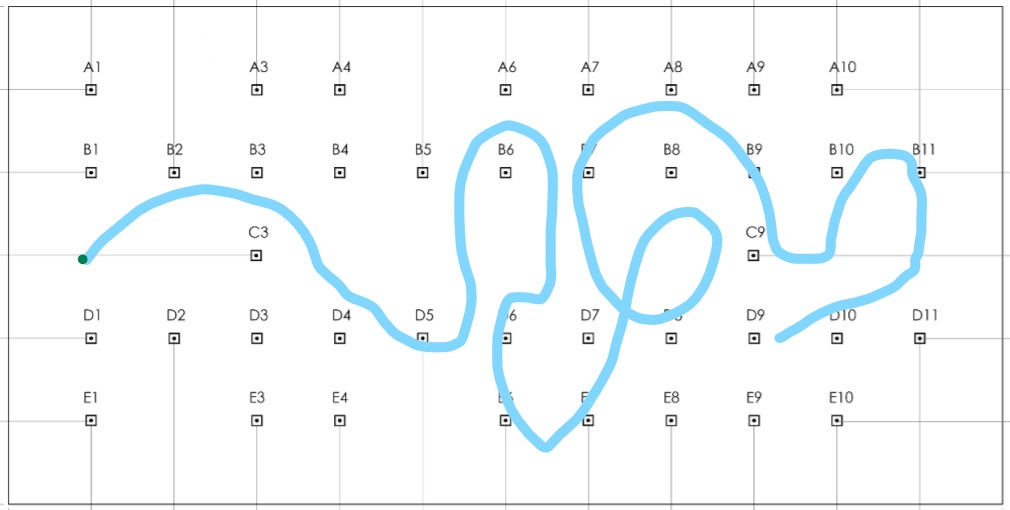
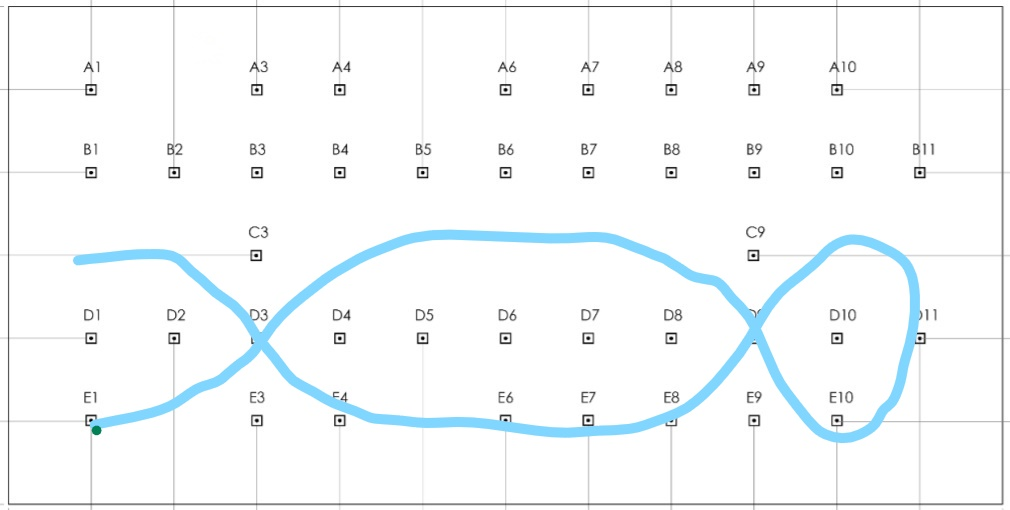
Updated more automation

Changed region(s): [[0.0614, 0.1765, 0.9208, 0.8824]]

diff --git a/CoursePlanner/CreateCourse.py b/CoursePlanner/CreateCourse.py
@@ -10,7 +10,7 @@ k_markerColor = [255, 40, 5] #Ferrari Red
 k_orginColor = [0, 255, 0] # green
 k_waypointStringingRadius = 23 # the maximum distance to look for a waypoint when creating a path
 k_pixelScalingFactor = .009208 # how many meters are represented by the length 1 pixel
-k_maxPathSmoothingDistance = 80 # how far between points the smoothing algorithim can go
+k_maxPathSmoothingDistance = 100 # how far between points the smoothing algorithim can go
 k_convertPathToCode = True # wether or not to save the path as lines of code
 
 baseImage = Image.open('BaseImage.jpg')
@@ -20,7 +20,7 @@ outputImageBitmap = baseImageBitmap # save for later use
 baseHeight = baseImageBitmap.shape[0]
 baseWidth = baseImageBitmap.shape[1]
 
-newImage = Image.open('NewImage5.jpg')
+newImage = Image.open('NewImage6.jpg')
 newImageBitmap = np.array(newImage)
 
 newHeight = newImageBitmap.shape[0]
@@ -179,8 +179,8 @@ while(pathFound):
             if(unlineraity < lowestUnlinearity or lowestUnlinearity == -1):
                 lowestUnlinearity = unlineraity
         
-        unlineraityMax = lowestUnlinearity + math.pi / 12 # waypoints that are valid must be in this range + or -
-        validWaypoints = [] # all of the points that are within the unlinearity max
+        unlineraityMax = lowestUnlinearity + math.pi / 16 # waypoints that are valid must be in this range + or -
+        validWaypoints = [] # all of the points that are w ithin the unlinearity max
         for waypoint in waypointsInZoneArray:
             currentAngle = math.pi / 2
             if(waypoint[1] != startPoint[1]): # stops a division by zero
@@ -294,6 +294,7 @@ while(waypointCounter + 3 < pathArray.__len__()):
     waypointCounter = waypointCounter + 1
 
 print("Smoothing: Method 2")
+print(pathArray.__len__())
 
 waypointCounter = 0
 while(waypointCounter + 2 < pathArray.__len__()):
@@ -314,7 +315,7 @@ while(waypointCounter + 2 < pathArray.__len__()):
                     pointFound = True # marks the point as found but do not smooth becuase the point is invalid
                     smoothPoint = False
             else: 
-                validPoint = pathArray[waypointCounter + nextPointCounter + 1]
+                validPoint = pathArray[waypointCounter + nextPointCounter]
 
                 distance = math.sqrt(math.pow(point[0] - validPoint[0], 2) + math.pow(point[1] - validPoint[1], 2))
                 if(distance < k_maxPathSmoothingDistance): # if the point is within the smoothing distance continue
@@ -336,35 +337,40 @@ while(waypointCounter + 2 < pathArray.__len__()):
                 relativeAngle = -relativeAngle
             if(nextPoint[1] != point[1]):
                 relativeAngle = math.atan(nextPoint[0] - point[0]) / (nextPoint[1] - point[1]) #slope of the first path between the first two points
-
+                if(nextPoint[1] < point[1]):
+                    relativeAngle = relativeAngle + math.pi
 
             nextRelativeAngle = math.pi / 2
-            if(nextNextPoint[0] < point[0]):
+            if(nextNextPoint[0] < nextPoint[0]):
                 nextRelativeAngle = -nextRelativeAngle
-            if(nextNextPoint[1] != point[1]):
-                nextRelativeAngle = math.atan(nextNextPoint[0] - point[0]) / (nextNextPoint[1] - point[1]) #slope of the first path between the first two points
+            if(nextNextPoint[1] != nextPoint[1]):
+                nextRelativeAngle = math.atan(nextNextPoint[0] - nextPoint[0]) / (nextNextPoint[1] - nextPoint[1]) #slope of the first path between the first two points
+                if(nextNextPoint[1] < nextPoint[1]):
+                    nextRelativeAngle = nextRelativeAngle + math.pi
 
-            unlinearity = (nextRelativeAngle - relativeAngle)
+            unlinearity = abs(nextRelativeAngle - relativeAngle)
+            if(unlinearity > math.pi):
+                unlinearity = math.pi * 2 - unlinearity
 
-            if(unlinearity < (math.pi / 12)): # smooth if the line is almost linear
-                pathArray[waypointCounter + nextPointCounter + 1] = [nextNextPoint[0], nextNextPoint[1], -1]
+            if(unlinearity < (math.pi / 50)): # smooth if the line is almost linear
+                pathArray[waypointCounter + nextPointCounter] = [nextNextPoint[0], nextNextPoint[1], -1]
             else:
                 smoothPoint = False
     
-    ironCounter = 0
-    newPathArray = []
+        ironCounter = 0
+        newPathArray = []
 
-    while(ironCounter < pathArray.__len__()): #irons out all of the invalid points from the path array
-        if(pathArray[ironCounter].__len__() == 2):
-            newPathArray.append(pathArray[ironCounter])
-        ironCounter = ironCounter + 1
+        while(ironCounter < pathArray.__len__()): #irons out all of the invalid points from the path array
+            if(pathArray[ironCounter].__len__() == 2):
+                newPathArray.append(pathArray[ironCounter])
 
-    pathArray = newPathArray
+            ironCounter = ironCounter + 1
+
+        pathArray = newPathArray
 
     waypointCounter = waypointCounter + 1
 
-
-
+print(pathArray.__len__())
 
 print("Creating ouput image")
 

diff --git a/src/main/java/frc/robot/helper/TestCourseManager.java b/src/main/java/frc/robot/helper/TestCourseManager.java
@@ -14,6 +14,54 @@ public class TestCourseManager extends CourseManager {
     protected List<double[]> getWayPointPoints() {
         List<double[]> wayPoints = new ArrayList();
 
+        wayPoints.add(new double[] { -0.0, 0.0 });
+        wayPoints.add(new double[] { 0.073664, 0.018416 });
+        wayPoints.add(new double[] { 0.09208, 0.11049599999999998 });
+        wayPoints.add(new double[] { 0.31307199999999996, 0.8103039999999999 });
+        wayPoints.add(new double[] { 0.36832, 0.8839679999999999 });
+        wayPoints.add(new double[] { 0.7734719999999999, 1.47328 });
+        wayPoints.add(new double[] { 0.9760479999999999, 1.6206079999999998 });
+        wayPoints.add(new double[] { 1.418032, 2.1178399999999997 });
+        wayPoints.add(new double[] { 1.47328, 2.20992 });
+        wayPoints.add(new double[] { 1.7495199999999997, 2.799232 });
+        wayPoints.add(new double[] { 1.786352, 2.9281439999999996 });
+        wayPoints.add(new double[] { 1.786352, 3.7568639999999998 });
+        wayPoints.add(new double[] { 1.786352, 3.8489439999999995 });
+        wayPoints.add(new double[] { 1.786352, 4.493504 });
+        wayPoints.add(new double[] { 1.786352, 4.585584 });
+        wayPoints.add(new double[] { 1.491696, 5.414304 });
+        wayPoints.add(new double[] { 1.418032, 5.5248 });
+        wayPoints.add(new double[] { 0.902384, 6.1141119999999995 });
+        wayPoints.add(new double[] { 0.7918879999999999, 6.150943999999999 });
+        wayPoints.add(new double[] { 0.147328, 6.519264 });
+        wayPoints.add(new double[] { 0.036832, 6.611343999999999 });
+        wayPoints.add(new double[] { 0.257824, 7.311151999999999 });
+        wayPoints.add(new double[] { 0.33148799999999995, 7.3664 });
+        wayPoints.add(new double[] { 1.068128, 7.550559999999999 });
+        wayPoints.add(new double[] { 1.141792, 7.550559999999999 });
+        wayPoints.add(new double[] { 1.3443679999999998, 7.532144 });
+        wayPoints.add(new double[] { 1.7495199999999997, 7.090159999999999 });
+        wayPoints.add(new double[] { 1.7679359999999997, 6.924415999999999 });
+        wayPoints.add(new double[] { 1.3812, 6.408767999999999 });
+        wayPoints.add(new double[] { 1.2338719999999999, 6.2614399999999995 });
+        wayPoints.add(new double[] { 0.6445599999999999, 5.856287999999999 });
+        wayPoints.add(new double[] { 0.570896, 5.8010399999999995 });
+        wayPoints.add(new double[] { 0.11049599999999998, 5.193312 });
+        wayPoints.add(new double[] { 0.073664, 5.082815999999999 });
+        wayPoints.add(new double[] { -0.018416, 4.254096 });
+        wayPoints.add(new double[] { -0.0, 4.180432 });
+        wayPoints.add(new double[] { 0.073664, 3.5174559999999997 });
+        wayPoints.add(new double[] { 0.073664, 3.4253759999999995 });
+        wayPoints.add(new double[] { 0.11049599999999998, 2.7255679999999995 });
+        wayPoints.add(new double[] { 0.11049599999999998, 2.633488 });
+        wayPoints.add(new double[] { 0.36832, 2.007344 });
+        wayPoints.add(new double[] { 0.38673599999999997, 1.9336799999999998 });
+        wayPoints.add(new double[] { 0.9944639999999999, 1.418032 });
+        wayPoints.add(new double[] { 1.086544, 1.3259519999999998 });
+        wayPoints.add(new double[] { 1.491696, 0.8471359999999999 });
+        wayPoints.add(new double[] { 1.5837759999999999, 0.73664 });
+        wayPoints.add(new double[] { 1.5837759999999999, -0.128912 });
+
         return wayPoints;
     }
 }

diff --git a/src/main/java/frc/robot/commands/AutomatedMotion/GoToPoint.java b/src/main/java/frc/robot/commands/AutomatedMotion/GoToPoint.java
@@ -17,8 +17,8 @@ public class GoToPoint extends CommandBase {
     private Timer m_timer; // allows for the calculation of the derivative
     private double m_previousFrameCount; // the most recent acknowledged frame
 
-    private double m_basePower = -0.8; // the base value for moving to power cells
-    private double m_Kp = 0.05;
+    private double m_basePower = -0.4; // the base value for moving to power cells
+    private double m_Kp = 0.08;
     private double m_Ki = 0.02;
     private double m_Kd = 0.0013;
 
@@ -98,13 +98,13 @@ public class GoToPoint extends CommandBase {
                 leftValue = Math.min(1, leftValue); // ensure the values are in the range
                 leftValue = Math.max(-1, leftValue);
 
-                m_drive.tankDrive(leftValue, basePower);// if total correction is positive slow left
+                m_drive.tankDriveRaw(leftValue, basePower);// if total correction is positive slow left
             } else {
                 double rightValue = basePower - totalCorrection;
                 rightValue = Math.min(1, rightValue); // ensure the values are in the range
                 rightValue = Math.max(-1, rightValue);
 
-                m_drive.tankDrive(basePower, rightValue);// if total correction is positive slow right
+                m_drive.tankDriveRaw(basePower, rightValue);// if total correction is positive slow right
             }
         } else { // if the robot is moving forward
             if (totalCorrection > 0) {
@@ -112,13 +112,13 @@ public class GoToPoint extends CommandBase {
                 leftValue = Math.min(1, leftValue); // ensure the values are in the range
                 leftValue = Math.max(-1, leftValue);
 
-                m_drive.tankDrive(leftValue, basePower);// if total correction is positive slow left
+                m_drive.tankDriveRaw(leftValue, basePower);// if total correction is positive slow left
             } else {
                 double rightValue = basePower - totalCorrection;
                 rightValue = Math.min(1, rightValue); // ensure the values are in the range
                 rightValue = Math.max(-1, rightValue);
 
-                m_drive.tankDrive(basePower, rightValue);// if total correction is positive slow right
+                m_drive.tankDriveRaw(basePower, rightValue);// if total correction is positive slow right
             }
         }
 

diff --git a/src/main/java/frc/robot/helper/DriveHandlingSetup/TyTankDrive.java b/src/main/java/frc/robot/helper/DriveHandlingSetup/TyTankDrive.java
@@ -7,6 +7,11 @@ public class TyTankDrive extends HandlingBase {
     }
 
     @Override
+    public double getPowerCoefficentInitialValue() {
+        return .5;
+    }
+
+    @Override
     public String getDefaultDriveCommandNameInitialValue() {
         return "TankDriveHandBrake";
     }
@@ -19,11 +24,6 @@ public class TyTankDrive extends HandlingBase {
     @Override
     public String getTabName() {
         return "TAT";
-    }
-
-    @Override
-    public double getPowerCoefficentInitialValue() {
-        return 13;
     }
 
     @Override
